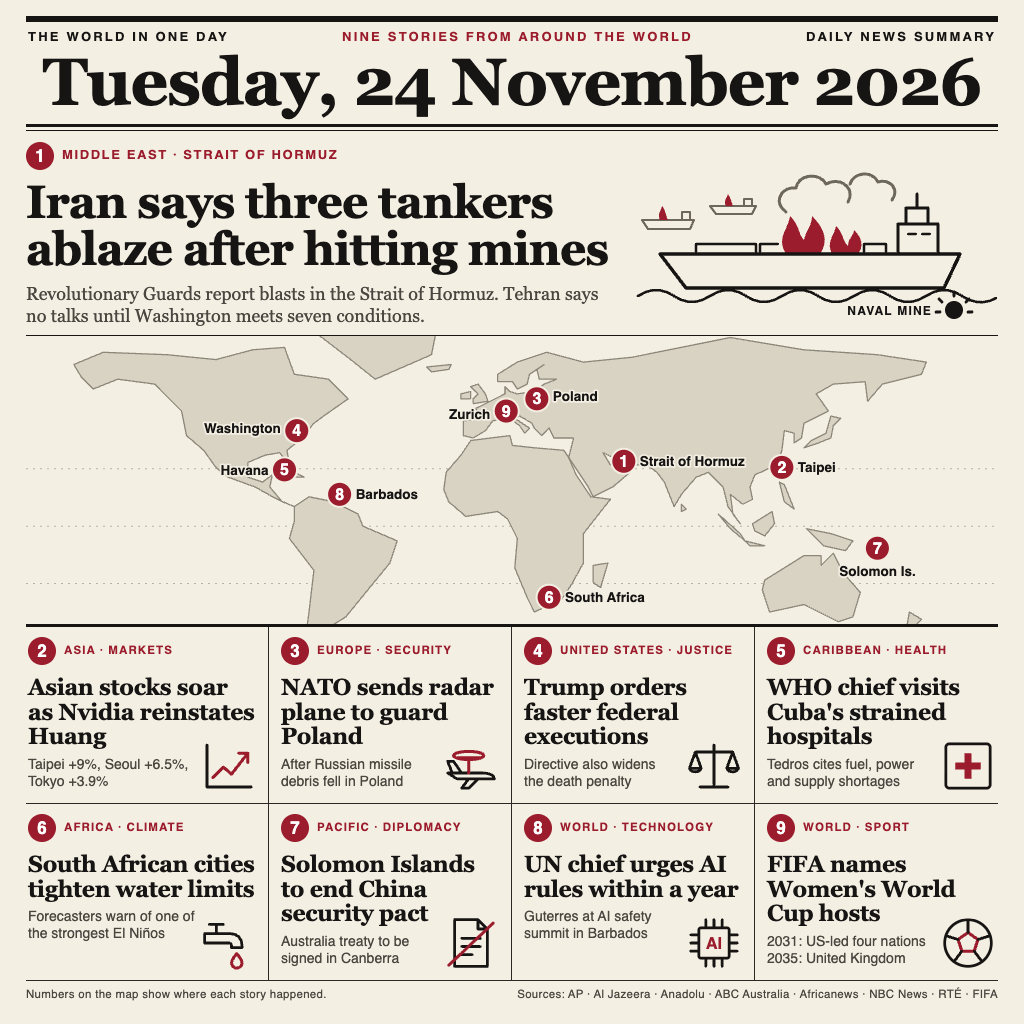
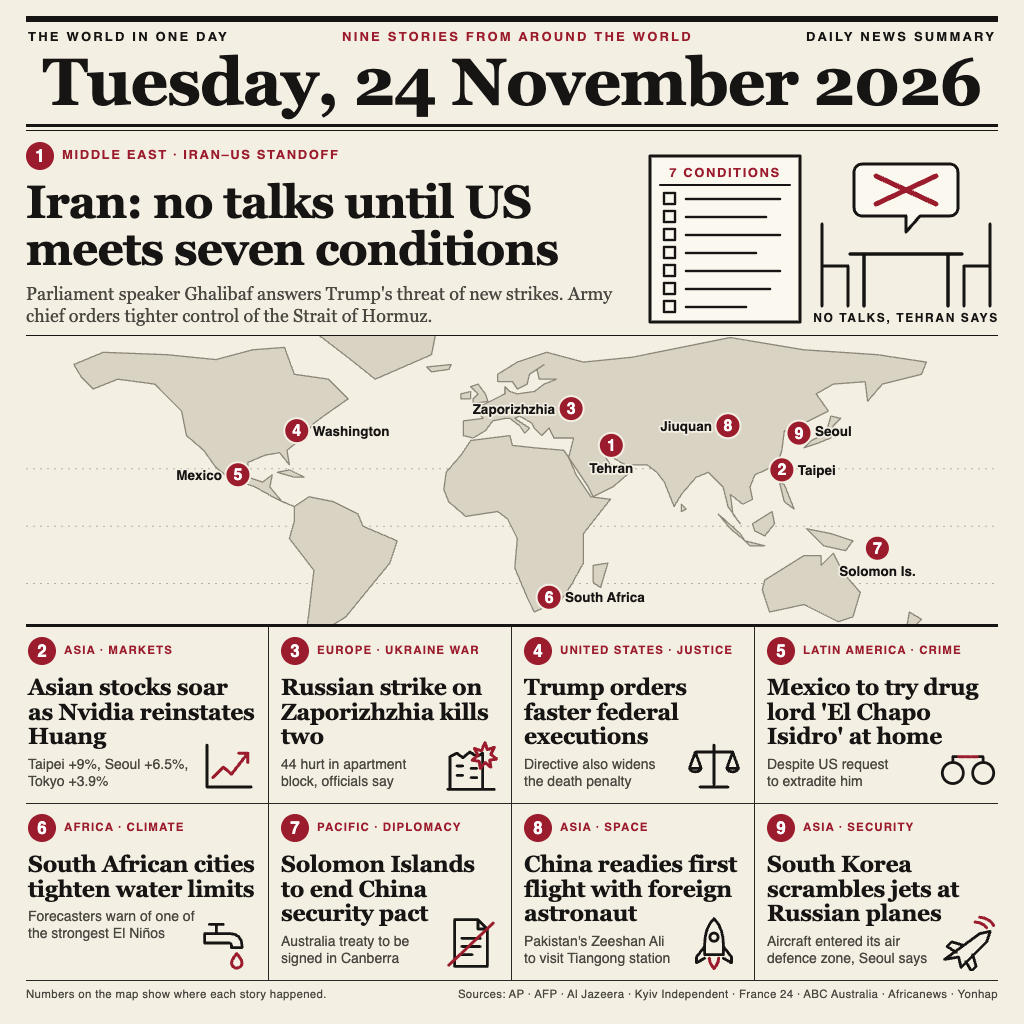
Second edition: lead with Iran's seven conditions, swap in stories first reported on 24 November

diff --git a/source/page.html b/source/page.html
@@ -68,32 +68,31 @@
   <!-- 1: lead -->
   <div class="lead">
     <div class="lead-text">
-      <div class="kicker"><span class="num">1</span>Middle East &middot; Strait of Hormuz</div>
-      <h1>Iran says three tankers ablaze after hitting mines</h1>
-      <p>Revolutionary Guards report blasts in the Strait of Hormuz. Tehran says no talks until Washington meets seven conditions.</p>
+      <div class="kicker"><span class="num">1</span>Middle East &middot; Iran&ndash;US standoff</div>
+      <h1>Iran: no talks until US meets seven conditions</h1>
+      <p>Parliament speaker Ghalibaf answers Trump's threat of new strikes. Army chief orders tighter control of the Strait of Hormuz.</p>
     </div>
     <svg class="lead-art" viewBox="0 0 362 176">
-      <!-- smoke -->
-      <path class="ico" style="stroke:#6d675c;stroke-width:3" d="M150 62c-14-10-4-26 10-24c2-14 24-16 30-4c14-8 30 4 22 18"/>
-      <path class="ico" style="stroke:#6d675c;stroke-width:3" d="M214 34c4-12 22-14 28-2c12-4 22 8 14 18"/>
-      <!-- flames -->
-      <path d="M150 104c-10-16 2-24 4-38c10 10 8 18 14 24c2-10 8-14 8-24c14 14 16 26 8 38z" fill="#9b1c2c"/>
-      <path d="M196 104c-6-12 2-18 4-28c8 8 6 14 12 20c0-8 6-10 6-16c8 8 10 16 4 24z" fill="#9b1c2c"/>
-      <!-- tanker -->
-      <path class="ico" style="stroke-width:3.4;fill:#f4efe3" d="M24 104h300l-16 34H50z"/>
-      <path class="ico" style="stroke-width:3" d="M262 104V74h40v30M270 74V58h22v16M281 58V44"/>
-      <path class="ico" style="stroke-width:2.4" d="M272 84h8M286 84h8M60 104V94h60v10M124 104V94h18M228 104V94h22v10"/>
-      <!-- far tankers -->
-      <path class="ico" style="stroke-width:2.2;stroke:#6d675c" d="M6 70h52l-4 9H12zM46 70v-8h8v8"/>
-      <path d="M24 70c-3-6 1-9 2-14c4 5 3 8 6 14z" fill="#9b1c2c"/>
-      <path class="ico" style="stroke-width:2.2;stroke:#6d675c" d="M74 56h46l-4 8H80zM108 56v-7h8v7"/>
-      <path d="M90 56c-3-5 1-8 2-12c3 4 3 7 5 12z" fill="#9b1c2c"/>
-      <!-- sea -->
-      <path class="ico" style="stroke-width:2.6" d="M2 146c12-8 24-8 36 0s24 8 36 0s24-8 36 0s24 8 36 0s24-8 36 0s24 8 36 0s24-8 36 0s24 8 36 0s24-8 36 0s24 8 34 2"/>
-      <!-- mine -->
-      <circle cx="318" cy="160" r="9" fill="#161514"/>
-      <path class="ico" style="stroke-width:3" d="M318 146v-4M306 152l-3-3M330 152l3-3M304 162h-4M332 162h4"/>
-      <text x="296" y="165" text-anchor="end" font-family="Helvetica, Arial, sans-serif" font-size="12" font-weight="700" letter-spacing="1.2" fill="#161514">NAVAL MINE</text>
+      <!-- the list of seven conditions: a sheet with seven unticked boxes -->
+      <rect class="ico" style="stroke-width:3;fill:#fbf8f0" x="14" y="6" width="150" height="166"/>
+      <text x="89" y="27" text-anchor="middle" font-family="Helvetica, Arial, sans-serif" font-size="13" font-weight="700" letter-spacing="1.6" fill="#9b1c2c">7 CONDITIONS</text>
+      <path class="ico" style="stroke-width:2" d="M24 35h130"/>
+      <g class="ico" style="stroke-width:2.4">
+        <rect x="28" y="43" width="11" height="11"/><path d="M50 49h94"/>
+        <rect x="28" y="61" width="11" height="11"/><path d="M50 67h80"/>
+        <rect x="28" y="79" width="11" height="11"/><path d="M50 85h94"/>
+        <rect x="28" y="97" width="11" height="11"/><path d="M50 103h70"/>
+        <rect x="28" y="115" width="11" height="11"/><path d="M50 121h94"/>
+        <rect x="28" y="133" width="11" height="11"/><path d="M50 139h84"/>
+        <rect x="28" y="151" width="11" height="11"/><path d="M50 157h60"/>
+      </g>
+      <!-- the empty negotiating table: two chairs, nobody seated -->
+      <path class="ico" style="stroke-width:3.4" d="M214 104h112M228 104v52M312 104v52"/>
+      <path class="ico" style="stroke-width:3" d="M186 74v82M186 116h26v40M354 74v82M354 116h-26v40"/>
+      <!-- "no talks": a crossed-out speech bubble above the table -->
+      <path class="ico" style="stroke-width:3;fill:#fbf8f0" d="M226 14h88a8 8 0 0 1 8 8v36a8 8 0 0 1-8 8h-30l-14 16v-16h-44a8 8 0 0 1-8-8v-36a8 8 0 0 1 8-8z"/>
+      <path class="ico-red" style="stroke-width:5" d="M240 26l60 28M300 26l-60 28"/>
+      <text x="270" y="172" text-anchor="middle" font-family="Helvetica, Arial, sans-serif" font-size="12" font-weight="700" letter-spacing="1.6" fill="#161514">NO TALKS, TEHRAN SAYS</text>
     </svg>
   </div>
 
@@ -109,10 +108,10 @@
       <svg class="icon" viewBox="0 0 48 48"><path class="ico" d="M6 6v36h38"/><path class="ico-red" d="M11 34l9-9l7 6l14-18M41 21v-8h-8"/></svg>
     </div>
     <div class="card">
-      <div class="kicker"><span class="num">3</span>Europe &middot; Security</div>
-      <h2>NATO sends radar plane to guard Poland</h2>
-      <p>After Russian missile<br>debris fell in Poland</p>
-      <svg class="icon" viewBox="0 0 48 48"><path class="ico" d="M4 30h30c6 0 10 2 10 5H12zM8 30l-4-10h5l7 10M22 35l-6 8h6l8-8"/><path class="ico-red" d="M12 17h20M22 17v13"/><ellipse class="ico-red" cx="22" cy="15" rx="13" ry="3.5"/></svg>
+      <div class="kicker"><span class="num">3</span>Europe &middot; Ukraine war</div>
+      <h2>Russian strike on Zaporizhzhia kills two</h2>
+      <p>44 hurt in apartment<br>block, officials say</p>
+      <svg class="icon" viewBox="0 0 48 48"><path class="ico" d="M6 44V16l6-3l5 4l6-5l6 4l5-3v31M4 44h40M12 24h5M12 32h5M24 26h5M24 34h5"/><path class="ico-red" d="M36 4l2 6l6-2l-3 6l5 4l-6 1l1 6l-5-4l-4 5l-1-6l-6-1l5-4l-3-6l6 2z"/></svg>
     </div>
     <div class="card">
       <div class="kicker"><span class="num">4</span>United States &middot; Justice</div>
@@ -121,10 +120,10 @@
       <svg class="icon" viewBox="0 0 48 48"><path class="ico" d="M24 6v34M12 42h24M8 12h32M8 12l-5 14h10zM40 12l-5 14h10z"/><path class="ico" d="M3 26c1 4 9 4 10 0M35 26c1 4 9 4 10 0"/></svg>
     </div>
     <div class="card">
-      <div class="kicker"><span class="num">5</span>Caribbean &middot; Health</div>
-      <h2>WHO chief visits Cuba's strained hospitals</h2>
-      <p>Tedros cites fuel, power<br>and supply shortages</p>
-      <svg class="icon" viewBox="0 0 48 48"><rect class="ico" x="5" y="5" width="38" height="38" rx="3"/><path class="ico-red" style="stroke-width:6;stroke-linecap:butt" d="M24 13v22M13 24h22"/></svg>
+      <div class="kicker"><span class="num">5</span>Latin America &middot; Crime</div>
+      <h2>Mexico to try drug lord 'El Chapo Isidro' at home</h2>
+      <p>Despite US request<br>to extradite him</p>
+      <svg class="icon" viewBox="0 0 48 48"><circle class="ico" cx="11" cy="30" r="9"/><circle class="ico" cx="37" cy="30" r="9"/><path class="ico" d="M11 21v-5h5M37 21v-5h-5"/><path class="ico-red" d="M16 16h5M22 16h4M27 16h5"/></svg>
     </div>
     <div class="card">
       <div class="kicker"><span class="num">6</span>Africa &middot; Climate</div>
@@ -139,22 +138,22 @@
       <svg class="icon" viewBox="0 0 48 48"><path class="ico" d="M10 4h20l8 8v32H10zM30 4v8h8M16 20h16M16 27h16M16 34h9"/><path class="ico-red" d="M5 43L43 7"/></svg>
     </div>
     <div class="card">
-      <div class="kicker"><span class="num">8</span>World &middot; Technology</div>
-      <h2>UN chief urges AI rules within a year</h2>
-      <p>Guterres at AI safety<br>summit in Barbados</p>
-      <svg class="icon" viewBox="0 0 48 48"><rect class="ico" x="11" y="11" width="26" height="26" rx="2"/><path class="ico" d="M17 11V4M24 11V4M31 11V4M17 44v-7M24 44v-7M31 44v-7M4 17h7M4 24h7M4 31h7M37 17h7M37 24h7M37 31h7"/><text x="24" y="29.500" text-anchor="middle" font-family="Helvetica, Arial, sans-serif" font-size="14" font-weight="700" fill="#9b1c2c">AI</text></svg>
+      <div class="kicker"><span class="num">8</span>Asia &middot; Space</div>
+      <h2>China readies first flight with foreign astronaut</h2>
+      <p>Pakistan's Zeeshan Ali<br>to visit Tiangong station</p>
+      <svg class="icon" viewBox="0 0 48 48"><path class="ico" d="M24 3c6 6 8 14 8 22v9H16v-9c0-8 2-16 8-22zM16 27l-7 9v5l7-4M32 27l7 9v5l-7-4"/><circle class="ico" cx="24" cy="19" r="3.500"/><path class="ico-red" d="M20 37c0 4 2 6 4 9c2-3 4-5 4-9"/></svg>
     </div>
     <div class="card">
-      <div class="kicker"><span class="num">9</span>World &middot; Sport</div>
-      <h2>FIFA names Women's World Cup hosts</h2>
-      <p>2031: US-led four nations<br>2035: United Kingdom</p>
-      <svg class="icon" viewBox="0 0 48 48"><circle class="ico" cx="24" cy="24" r="20"/><path class="ico-red" d="M24 15l8.500 6l-3.200 10h-10.600l-3.200-10z"/><path class="ico" d="M24 15V5M32.500 21l9.500-3M29.300 31l6 8M18.700 31l-6 8M15.500 21l-9.500-3"/></svg>
+      <div class="kicker"><span class="num">9</span>Asia &middot; Security</div>
+      <h2>South Korea scrambles jets at Russian planes</h2>
+      <p>Aircraft entered its air<br>defence zone, Seoul says</p>
+      <svg class="icon" viewBox="0 0 48 48"><path class="ico" d="M4 38l30-22l9-2l-3 9l-22 22l-2-9zM20 26l-10-3l-4 4l8 5M28 34l3 10l-4 4l-5-8"/><path class="ico-red" d="M30 6c4 0 8 2 10 5M34 2c5 0 10 3 12 7"/></svg>
     </div>
   </div>
 
   <div class="foot">
     <span>Numbers on the map show where each story happened.</span>
-    <span>Sources: AP &middot; Al Jazeera &middot; Anadolu &middot; ABC Australia &middot; Africanews &middot; NBC News &middot; RT&Eacute; &middot; FIFA</span>
+    <span>Sources: AP &middot; AFP &middot; Al Jazeera &middot; Kyiv Independent &middot; France 24 &middot; ABC Australia &middot; Africanews &middot; Yonhap</span>
   </div>
 </div>
 
@@ -200,15 +199,15 @@ const LAND = [
 
 // Where each numbered story happened.
 const PINS = [
-  { n: 1, lon: 56.500, lat: 26.500, label: 'Strait of Hormuz', dx: 16, dy: 5, anchor: 'start' },
-  { n: 2, lon: 121, lat: 24, label: 'Taipei', dx: 16, dy: 5, anchor: 'start' },
-  { n: 3, lon: 21, lat: 52, label: 'Poland', dx: 16, dy: 2, anchor: 'start' },
-  { n: 4, lon: -77, lat: 39, label: 'Washington', dx: -16, dy: 2, anchor: 'end' },
-  { n: 5, lon: -82, lat: 23, label: 'Havana', dx: -16, dy: 5, anchor: 'end' },
+  { n: 1, lon: 51.400, lat: 33, label: 'Tehran', dx: 0, dy: 28, anchor: 'middle' },
+  { n: 2, lon: 121, lat: 23, label: 'Taipei', dx: 16, dy: 5, anchor: 'start' },
+  { n: 3, lon: 35, lat: 48, label: 'Zaporizhzhia', dx: -16, dy: 5, anchor: 'end' },
+  { n: 4, lon: -77, lat: 39, label: 'Washington', dx: 16, dy: 5, anchor: 'start' },
+  { n: 5, lon: -101, lat: 21, label: 'Mexico', dx: -16, dy: 5, anchor: 'end' },
   { n: 6, lon: 26, lat: -29, label: 'South Africa', dx: 16, dy: 5, anchor: 'start' },
   { n: 7, lon: 160, lat: -9, label: 'Solomon Is.', dx: 0, dy: 28, anchor: 'middle' },
-  { n: 8, lon: -59.500, lat: 13, label: 'Barbados', dx: 16, dy: 5, anchor: 'start' },
-  { n: 9, lon: 8.500, lat: 47, label: 'Zurich', dx: -16, dy: 8, anchor: 'end' }
+  { n: 8, lon: 99, lat: 41, label: 'Jiuquan', dx: -16, dy: 5, anchor: 'end' },
+  { n: 9, lon: 128, lat: 38, label: 'Seoul', dx: 16, dy: 3, anchor: 'start' }
 ];
 
 const SCALE = 2.450;          // pixels per degree

diff --git a/README.md b/README.md
@@ -12,15 +12,15 @@ The picture is drawn by hand as HTML and SVG in `source/page.html` (no generated
 
 | # | Story | Region · field | Reported by |
 |---|-------|----------------|-------------|
-| 1 | Iran says three tankers ablaze after hitting mines in the Strait of Hormuz | Middle East · conflict | Al Jazeera, Anadolu |
-| 2 | Asian stocks soar as Nvidia reinstates Huang | Asia · markets | AP, CNBC |
-| 3 | NATO sends radar plane to guard Poland | Europe · security | NBC News, Kyiv Post |
+| 1 | Iran: no talks until US meets seven conditions | Middle East · Iran–US standoff | Al Jazeera, Middle East Eye, Gulf News |
+| 2 | Asian stocks soar as Nvidia reinstates Huang | Asia · markets | AP, AFP, CNBC |
+| 3 | Russian strike on Zaporizhzhia kills two | Europe · Ukraine war | Kyiv Independent, France 24 |
 | 4 | Trump orders faster federal executions | United States · justice | RTÉ, Al Jazeera |
-| 5 | WHO chief visits Cuba's strained hospitals | Caribbean · health | Al Jazeera, Reuters |
+| 5 | Mexico to try drug lord 'El Chapo Isidro' at home | Latin America · crime | Al Jazeera, Reuters |
 | 6 | South African cities tighten water limits | Africa · climate | Africanews, Bloomberg |
 | 7 | Solomon Islands to end China security pact | Pacific · diplomacy | ABC Australia, Solomon Star |
-| 8 | UN chief urges AI rules within a year | World · technology | Al Jazeera, France 24 |
-| 9 | FIFA names Women's World Cup hosts for 2031 and 2035 | World · sport | FIFA, Anadolu |
+| 8 | China readies first flight with foreign astronaut | Asia · space | Al Jazeera, France 24 |
+| 9 | South Korea scrambles jets at Russian planes | Asia · security | Yonhap, Korea Times, Anadolu |
 
 ## Run it
 
